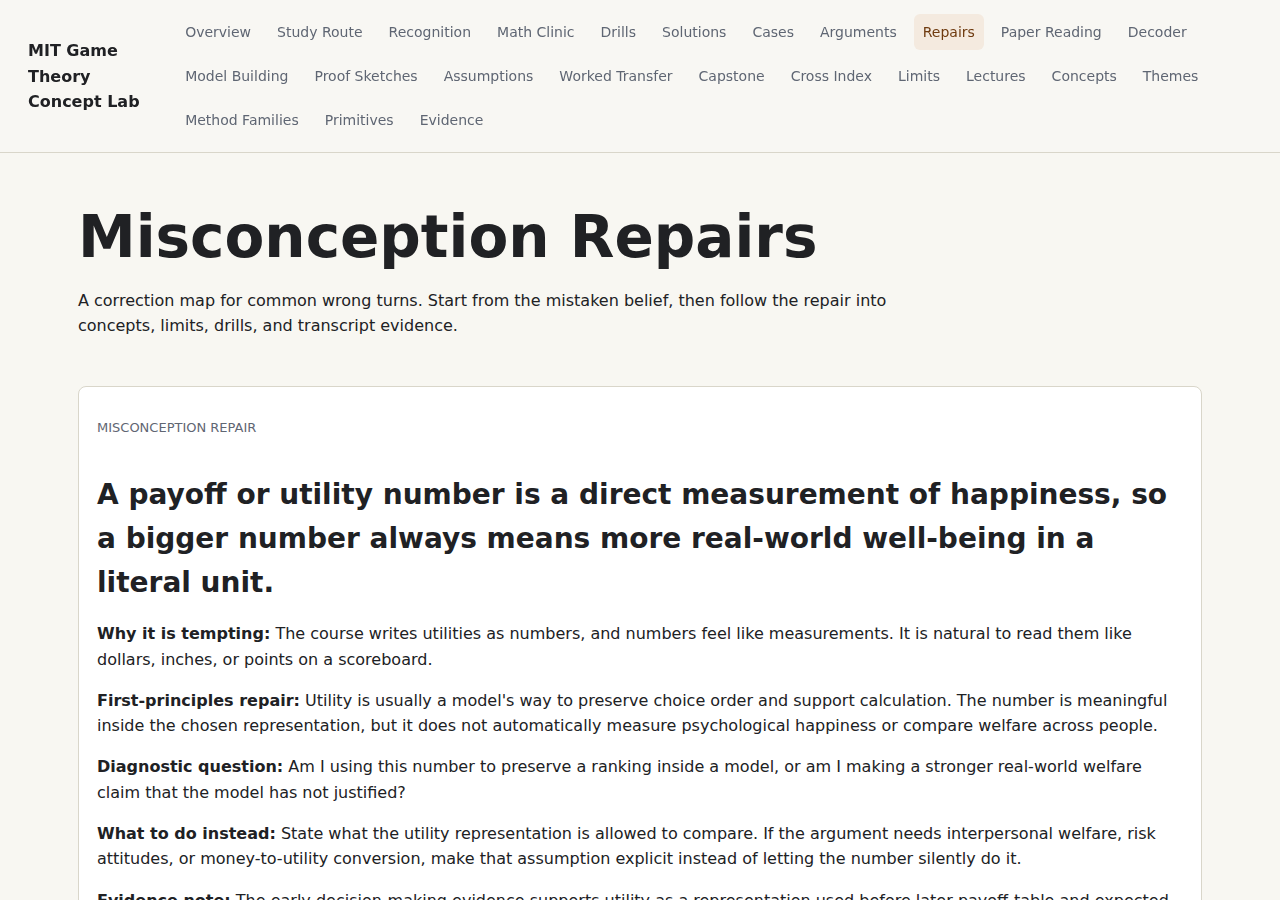
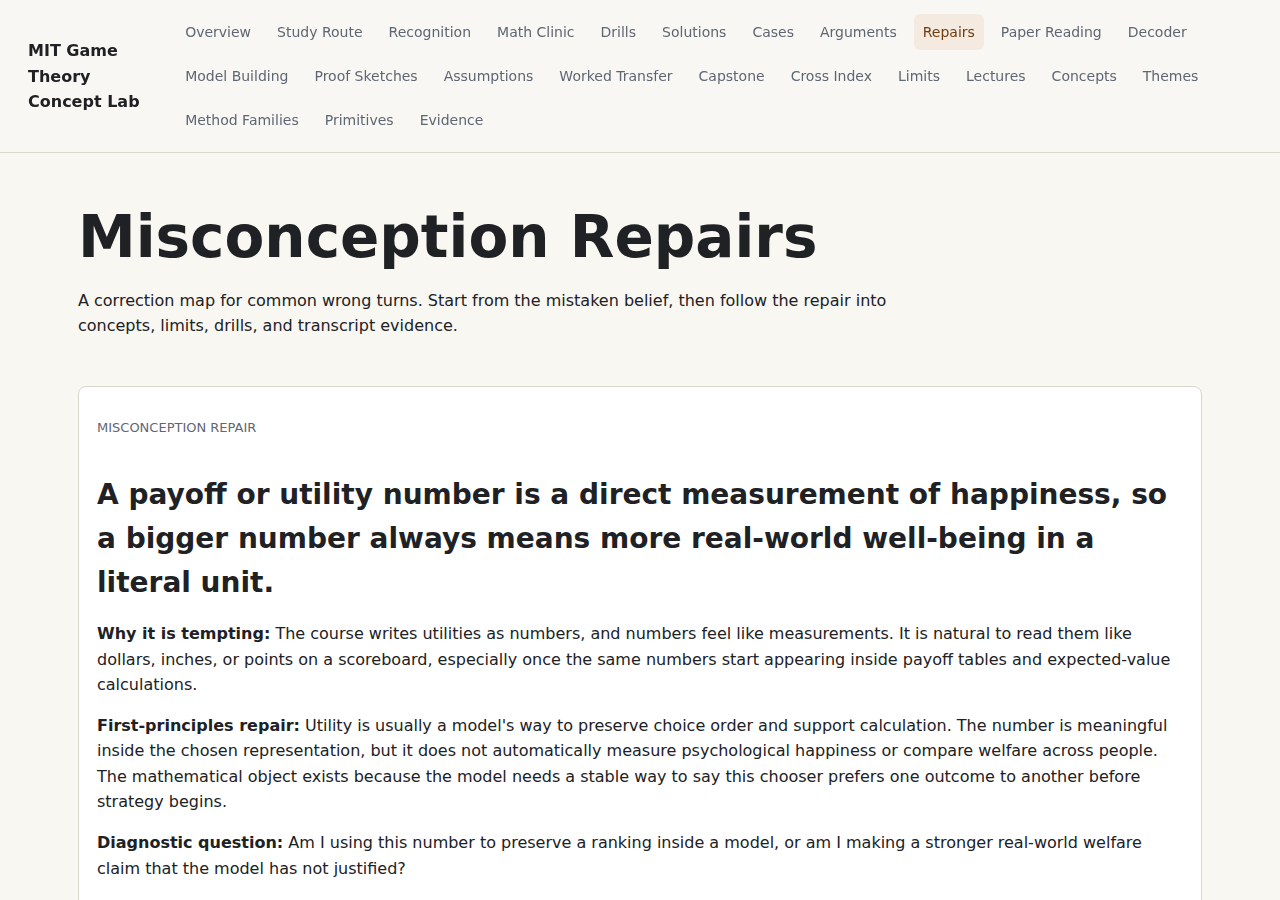
Deepen MIT misconception repairs

Changed region(s): [[0.0625, 0.7467, 0.9375, 1.0], [0.3438, 0.7156, 0.9062, 0.7467]]

diff --git a/site/repairs.html b/site/repairs.html
@@ -17,10 +17,12 @@
 </section><article class="wide-card repair-card" id="repair-payoff-is-happiness">
   <p class="eyebrow">Misconception repair</p>
   <h2>A payoff or utility number is a direct measurement of happiness, so a bigger number always means more real-world well-being in a literal unit.</h2>
-  <p><strong>Why it is tempting:</strong> The course writes utilities as numbers, and numbers feel like measurements. It is natural to read them like dollars, inches, or points on a scoreboard.</p>
-  <p><strong>First-principles repair:</strong> Utility is usually a model&#x27;s way to preserve choice order and support calculation. The number is meaningful inside the chosen representation, but it does not automatically measure psychological happiness or compare welfare across people.</p>
+  <p><strong>Why it is tempting:</strong> The course writes utilities as numbers, and numbers feel like measurements. It is natural to read them like dollars, inches, or points on a scoreboard, especially once the same numbers start appearing inside payoff tables and expected-value calculations.</p>
+  <p><strong>First-principles repair:</strong> Utility is usually a model&#x27;s way to preserve choice order and support calculation. The number is meaningful inside the chosen representation, but it does not automatically measure psychological happiness or compare welfare across people. The mathematical object exists because the model needs a stable way to say this chooser prefers one outcome to another before strategy begins.</p>
   <p><strong>Diagnostic question:</strong> Am I using this number to preserve a ranking inside a model, or am I making a stronger real-world welfare claim that the model has not justified?</p>
-  <p><strong>What to do instead:</strong> State what the utility representation is allowed to compare. If the argument needs interpersonal welfare, risk attitudes, or money-to-utility conversion, make that assumption explicit instead of letting the number silently do it.</p>
+  <p><strong>What breaks if ignored:</strong> If this mistake is ignored, the analyst may compare payoffs across people as if the units were naturally shared, treat a risk-neutral utility model as a claim about emotion, or turn a convenient payoff table into an unsupported welfare conclusion.</p>
+  <p><strong>Worked correction:</strong> When a payoff table says player A gets 4 and player B gets 2, first read those numbers within each player&#x27;s representation. For A, 4 beats A&#x27;s lower-numbered outcomes. For B, 2 has meaning inside B&#x27;s ranking. Nothing in those two entries alone proves A is twice as happy as B or that society should prefer A&#x27;s gain.</p>
+  <p><strong>Transfer test:</strong> In a new paper, circle every payoff or objective. Ask what real-world preference it represents, whether the scale matters only up to ranking, and whether any interpersonal or welfare comparison has been separately justified.</p>
   <p><strong>Evidence note:</strong> The early decision-making evidence supports utility as a representation used before later payoff-table and expected-utility calculations.</p>
   <h3>Concept Pages</h3><p class="chips"><a class="chip" href="concepts/preferences.html">Preferences</a><a class="chip" href="concepts/utility.html">Utility</a><a class="chip" href="concepts/expected_utility.html">Expected Utility</a></p>
   <h3>Limits And Traps</h3><p class="chips"><a class="chip" href="limits.html#limit-preferences">Preferences</a><a class="chip" href="limits.html#limit-utility">Utility</a><a class="chip" href="limits.html#limit-expected_utility">Expected Utility</a></p>
@@ -29,10 +31,12 @@
 </article><article class="wide-card repair-card" id="repair-dominance-is-likely-bad">
   <p class="eyebrow">Misconception repair</p>
   <h2>A strategy can be deleted as dominated because it looks bad in the case that seems most likely.</h2>
-  <p><strong>Why it is tempting:</strong> Students often bring an informal prediction into the comparison. Once a move looks unattractive under that favorite prediction, deletion feels safe.</p>
-  <p><strong>First-principles repair:</strong> Dominance is not a prediction about what the opponent will probably do. It is a universal comparison across every relevant opponent action in the model. If the supposedly bad move is useful in even one relevant case, dominance has not been shown.</p>
+  <p><strong>Why it is tempting:</strong> Students often bring an informal prediction into the comparison. Once a move looks unattractive under that favorite prediction, deletion feels safe. The mistake is especially tempting when the likely case has vivid real-world detail and the other cases feel like edge conditions.</p>
+  <p><strong>First-principles repair:</strong> Dominance is not a prediction about what the opponent will probably do. It is a universal comparison across every relevant opponent action in the model. If the supposedly bad move is useful in even one relevant case, dominance has not been shown. The mathematical principle is strong precisely because it does not need a belief about the opponent.</p>
   <p><strong>Diagnostic question:</strong> Did I compare this action against the alternative under every opponent action, or only under the scenario I expect?</p>
-  <p><strong>What to do instead:</strong> Use the dominance inequality first. If it fails, keep the action alive and move to beliefs, best responses, rationalizability, or equilibrium instead of forcing deletion.</p>
+  <p><strong>What breaks if ignored:</strong> If likelihood replaces universal comparison, the deletion step quietly changes from dominance to belief-based expected payoff. That can erase actions that matter later for equilibrium, rationalizability, or signaling, and the reader may never notice that a belief assumption entered the proof.</p>
+  <p><strong>Worked correction:</strong> Suppose high price beats low price if the rival is calm, but low price beats high price if the rival is aggressive. High price may be attractive under your favorite forecast, but low price is not dominated. Keep both actions until the model supplies beliefs or a best-response calculation.</p>
+  <p><strong>Transfer test:</strong> When a paper deletes actions, look for the word every in the comparison. If the text says usually, likely, empirically rare, or intuitively unattractive, the argument is no longer a dominance proof without an added belief model.</p>
   <p><strong>Evidence note:</strong> The dominance and rationalizability evidence anchors support the distinction between strict pruning and belief-based plausibility.</p>
   <h3>Concept Pages</h3><p class="chips"><a class="chip" href="concepts/dominance.html">Dominance</a><a class="chip" href="concepts/iterated_deletion.html">Iterated Deletion</a><a class="chip" href="concepts/rationalizability.html">Rationalizability</a></p>
   <h3>Limits And Traps</h3><p class="chips"><a class="chip" href="limits.html#limit-dominance">Dominance</a><a class="chip" href="limits.html#limit-iterated_deletion">Iterated Deletion</a><a class="chip" href="limits.html#limit-rationalizability">Rationalizability</a></p>
@@ -41,10 +45,12 @@
 </article><article class="wide-card repair-card" id="repair-equilibrium-is-good">
   <p class="eyebrow">Misconception repair</p>
   <h2>If an outcome is a Nash equilibrium, it must be good, fair, efficient, or what the group collectively wants.</h2>
-  <p><strong>Why it is tempting:</strong> The word equilibrium sounds like balance or social order. It is easy to import a positive meaning that the mathematical test does not contain.</p>
-  <p><strong>First-principles repair:</strong> Nash equilibrium is a unilateral deviation test. It says no single player wants to move alone, holding the others fixed. It does not say the outcome is socially best, fair, stable against coalitions, or morally desirable.</p>
+  <p><strong>Why it is tempting:</strong> The word equilibrium sounds like balance or social order. It is easy to import a positive meaning that the mathematical test does not contain. Many textbook examples also present equilibrium as the answer, which can make answer feel like recommendation.</p>
+  <p><strong>First-principles repair:</strong> Nash equilibrium is a unilateral deviation test. It says no single player wants to move alone, holding the others fixed. It does not say the outcome is socially best, fair, stable against coalitions, or morally desirable. The concept matters because a bad outcome can still be hard to escape when each individual move away is punished by the fixed behavior of others.</p>
   <p><strong>Diagnostic question:</strong> Am I checking individual incentives to deviate, or am I smuggling in a welfare judgment about the whole outcome?</p>
-  <p><strong>What to do instead:</strong> First test best responses player by player. Then, if welfare matters, ask a separate welfare or efficiency question rather than treating equilibrium as an endorsement.</p>
+  <p><strong>What breaks if ignored:</strong> If equilibrium is treated as goodness, prisoner-dilemma-style outcomes, aggressive pricing, inefficient coordination failures, and bad conventions become falsely sanitized. The reader loses the course&#x27;s central distinction between prediction and evaluation.</p>
+  <p><strong>Worked correction:</strong> If two firms both price aggressively, each may prefer mutual softness but still undercut if the other stays soft. The aggressive pair can pass the unilateral-deviation test even though both firms would like a coordinated alternative. The equilibrium claim is about stability, not praise.</p>
+  <p><strong>Transfer test:</strong> In new work, separate three questions: is this outcome stable against unilateral deviations, is it efficient for the group, and is it normatively acceptable? A Nash label answers only the first unless the paper adds more machinery.</p>
   <p><strong>Evidence note:</strong> The best-response and Nash evidence anchors support equilibrium as mutual consistency, while imperfect-competition examples show stable outcomes can still be socially unattractive.</p>
   <h3>Concept Pages</h3><p class="chips"><a class="chip" href="concepts/best_response.html">Best Response</a><a class="chip" href="concepts/nash_equilibrium.html">Nash Equilibrium</a><a class="chip" href="concepts/imperfect_competition.html">Imperfect Competition</a></p>
   <h3>Limits And Traps</h3><p class="chips"><a class="chip" href="limits.html#limit-best_response">Best Response</a><a class="chip" href="limits.html#limit-nash_equilibrium">Nash Equilibrium</a><a class="chip" href="limits.html#limit-imperfect_competition">Imperfect Competition</a></p>
@@ -53,10 +59,12 @@
 </article><article class="wide-card repair-card" id="repair-threats-are-automatically-credible">
   <p class="eyebrow">Misconception repair</p>
   <h2>A threat should be treated as real because it is announced before the other player chooses.</h2>
-  <p><strong>Why it is tempting:</strong> Announcements happen early in the story, and early statements can feel like fixed constraints on later behavior.</p>
-  <p><strong>First-principles repair:</strong> A future action is credible only if the player would still want to take it when the future decision point arrives. Sequential reasoning asks the later self, not only the earlier announcement.</p>
+  <p><strong>Why it is tempting:</strong> Announcements happen early in the story, and early statements can feel like fixed constraints on later behavior. Human conversation also treats promises and threats as socially meaningful, so it is easy to forget that the model has to test the later incentive separately.</p>
+  <p><strong>First-principles repair:</strong> A future action is credible only if the player would still want to take it when the future decision point arrives. Sequential reasoning asks the later self, not only the earlier announcement. The mathematical idea is backward recursion: solve the future node under the payoffs that exist then, and only afterward interpret the earlier move.</p>
   <p><strong>Diagnostic question:</strong> At the node where the threat must be carried out, is carrying it out still better for the player who made the threat?</p>
-  <p><strong>What to do instead:</strong> Draw the tree, solve the later decision first, and then use that continuation to interpret the earlier move. If the threat fails later incentives, do not let it drive the initial prediction.</p>
+  <p><strong>What breaks if ignored:</strong> If announced threats are accepted without later checks, a model can predict deterrence from empty speech. Entry threats, bargaining ultimatums, and platform enforcement rules all become too powerful because the analyst never asks whether carrying them out is costly later.</p>
+  <p><strong>Worked correction:</strong> Draw the tree. If the entrant enters, the incumbent chooses fight or accommodate. If fighting gives the incumbent -1 and accommodation gives 2, the later node selects accommodation. The entrant should reason from that continuation, not from the earlier aggressive announcement.</p>
+  <p><strong>Transfer test:</strong> In a paper or business case, jump to the moment when the threat must be executed. Ignore sunk speeches and compare the remaining payoffs. If execution is not best there, look for a commitment device before treating the threat as credible.</p>
   <p><strong>Evidence note:</strong> The extensive-form, backward-induction, and subgame-perfection evidence anchors support the course&#x27;s credibility test for dynamic games.</p>
   <h3>Concept Pages</h3><p class="chips"><a class="chip" href="concepts/extensive_form_games.html">Extensive Form Games</a><a class="chip" href="concepts/backward_induction.html">Backward Induction</a><a class="chip" href="concepts/subgame_perfection.html">Subgame-Perfect Nash Equilibrium</a></p>
   <h3>Limits And Traps</h3><p class="chips"><a class="chip" href="limits.html#limit-extensive_form_games">Extensive Form Games</a><a class="chip" href="limits.html#limit-backward_induction">Backward Induction</a><a class="chip" href="limits.html#limit-subgame_perfection">Subgame-Perfect Nash Equilibrium</a></p>
@@ -64,11 +72,13 @@
   <h3>Transcript Evidence</h3><ul class="evidence-list"><li><a href="evidence.html#ev-extensive_form_games-01">ev-extensive_form_games-01</a>: Lecture 2: Representation of Games</li><li><a href="evidence.html#ev-backward_induction-02">ev-backward_induction-02</a>: Lecture 2: Representation of Games</li><li><a href="evidence.html#ev-subgame_perfection-01">ev-subgame_perfection-01</a>: Lecture 10: Subgame-Perfect Nash Equilibrium</li></ul>
 </article><article class="wide-card repair-card" id="repair-repetition-guarantees-cooperation">
   <p class="eyebrow">Misconception repair</p>
-  <h2>If players interact repeatedly, cooperation should follow because people care about the relationship.</h2>
-  <p><strong>Why it is tempting:</strong> Repeated interaction feels socially richer than a one-shot encounter, so it is tempting to treat the future as automatically disciplining behavior.</p>
-  <p><strong>First-principles repair:</strong> Repetition only helps when future consequences are strong enough. The model compares today&#x27;s deviation gain with the discounted future loss from punishment or lost cooperation.</p>
+  <h2>If players interact repeatedly, cooperation should follow because people care about the relationship and expect future contact.</h2>
+  <p><strong>Why it is tempting:</strong> Repeated interaction feels socially richer than a one-shot encounter, so it is tempting to treat the future as automatically disciplining behavior. Everyday relationship language also makes patience sound moral rather than mathematical.</p>
+  <p><strong>First-principles repair:</strong> Repetition only helps when future consequences are strong enough. The model compares today&#x27;s deviation gain with the discounted future loss from punishment or lost cooperation. The future is a force in the model only after monitoring, punishment, and patience turn it into an incentive that changes the present best response.</p>
   <p><strong>Diagnostic question:</strong> What is the one-time gain from cheating, what future loss follows, and how much does the player value that future?</p>
-  <p><strong>What to do instead:</strong> Write the incentive comparison. Cooperation is supported only if the discounted value of staying on the cooperative path beats deviation plus punishment.</p>
+  <p><strong>What breaks if ignored:</strong> If repetition is treated as automatic cooperation, finite endings, weak monitoring, low patience, and noncredible punishments disappear from the analysis. The folk-theorem intuition then becomes a slogan instead of a conditional result about payoffs, feasible punishments, and continuation value.</p>
+  <p><strong>Worked correction:</strong> If cheating gives 10 today instead of 6, but triggers future payoffs of 2 instead of 6, compare the one-time gain of 4 with the discounted stream of future losses. A patient player may cooperate; an impatient player may cheat. Repetition alone does not decide the answer.</p>
+  <p><strong>Transfer test:</strong> When a paper says cooperation is sustained by repeated interaction, find the incentive constraint. Identify the deviation payoff, cooperative continuation, punishment continuation, monitoring assumption, and discount factor before accepting the claim as more than a repeated-contact story.</p>
   <p><strong>Evidence note:</strong> The repeated-game, folk-theorem, and cartel evidence anchors support future discipline as an incentive calculation, not a general claim about relationships.</p>
   <h3>Concept Pages</h3><p class="chips"><a class="chip" href="concepts/infinitely_repeated_games.html">Infinitely Repeated Games</a><a class="chip" href="concepts/folk_theorem.html">Folk Theorem</a><a class="chip" href="concepts/implicit_cartels.html">Implicit Cartels</a></p>
   <h3>Limits And Traps</h3><p class="chips"><a class="chip" href="limits.html#limit-infinitely_repeated_games">Infinitely Repeated Games</a><a class="chip" href="limits.html#limit-folk_theorem">Folk Theorem</a><a class="chip" href="limits.html#limit-implicit_cartels">Implicit Cartels</a></p>
@@ -77,10 +87,12 @@
 </article><article class="wide-card repair-card" id="repair-beliefs-are-free">
   <p class="eyebrow">Misconception repair</p>
   <h2>In Bayesian or signaling models, beliefs can be chosen freely to make the desired story work.</h2>
-  <p><strong>Why it is tempting:</strong> Beliefs are not directly observed, so they can feel like adjustable narrative glue.</p>
-  <p><strong>First-principles repair:</strong> Beliefs are part of the model&#x27;s discipline. They must be tied to types, priors, observed actions, Bayes&#x27; rule where applicable, and the incentives that make different types choose different actions.</p>
+  <p><strong>Why it is tempting:</strong> Beliefs are not directly observed, so they can feel like adjustable narrative glue. It is also common for solution writeups to state beliefs compactly, hiding the type distribution, observed action, and equilibrium-path logic that made those beliefs legitimate.</p>
+  <p><strong>First-principles repair:</strong> Beliefs are part of the model&#x27;s discipline. They must be tied to types, priors, observed actions, Bayes&#x27; rule where applicable, and the incentives that make different types choose different actions. In signaling, the receiver&#x27;s belief and the sender&#x27;s action have to support each other.</p>
   <p><strong>Diagnostic question:</strong> Does this belief follow from the modeled type distribution and observed behavior, or is it being inserted just to rescue the conclusion?</p>
-  <p><strong>What to do instead:</strong> List the possible types, ask how likely each action is under each type, update beliefs where the path has positive probability, and separately check whether each type wants to imitate or separate.</p>
+  <p><strong>What breaks if ignored:</strong> If beliefs are unconstrained, any story can be made to look Bayesian. A warranty can reveal quality without costly imitation checks, a message can persuade without incentive alignment, and a perfect-Bayesian-equilibrium claim can hide arbitrary off-path assumptions.</p>
+  <p><strong>Worked correction:</strong> List high and low types. Ask what each type would do if buyers reward the observed action. If both types cheaply choose the same warranty, seeing a warranty should not strongly raise the buyer&#x27;s belief that the seller is high quality. The belief must follow from differential behavior.</p>
+  <p><strong>Transfer test:</strong> In new work, trace every posterior back to a prior, a signal or action, and a likelihood under each type. Then check whether the type assigned to an action actually wants to take that action instead of imitating another type.</p>
   <p><strong>Evidence note:</strong> The type, perfect-Bayesian-equilibrium, signaling, and screening evidence anchors support beliefs as disciplined responses to hidden information and observed behavior.</p>
   <h3>Concept Pages</h3><p class="chips"><a class="chip" href="concepts/types_and_beliefs.html">Types And Beliefs</a><a class="chip" href="concepts/perfect_bayesian_equilibrium.html">Perfect Bayesian Equilibrium</a><a class="chip" href="concepts/signaling.html">Signaling</a><a class="chip" href="concepts/screening_and_adverse_selection.html">Screening And Adverse Selection</a></p>
   <h3>Limits And Traps</h3><p class="chips"><a class="chip" href="limits.html#limit-types_and_beliefs">Types And Beliefs</a><a class="chip" href="limits.html#limit-perfect_bayesian_equilibrium">Perfect Bayesian Equilibrium</a><a class="chip" href="limits.html#limit-signaling">Signaling</a></p>
@@ -88,11 +100,13 @@
   <h3>Transcript Evidence</h3><ul class="evidence-list"><li><a href="evidence.html#ev-types_and_beliefs-01">ev-types_and_beliefs-01</a>: Lecture 16: Bayesian Games</li><li><a href="evidence.html#ev-perfect_bayesian_equilibrium-01">ev-perfect_bayesian_equilibrium-01</a>: Lecture 21: Perfect Bayesian Equilibrium</li><li><a href="evidence.html#ev-signaling-01">ev-signaling-01</a>: Lecture 22: Signaling</li><li><a href="evidence.html#ev-screening_and_adverse_selection-01">ev-screening_and_adverse_selection-01</a>: Lecture 16: Bayesian Games</li></ul>
 </article><article class="wide-card repair-card" id="repair-auctions-are-highest-bid-only">
   <p class="eyebrow">Misconception repair</p>
-  <h2>Auction analysis is just about who bids the most and how much the winner pays.</h2>
-  <p><strong>Why it is tempting:</strong> Many everyday auctions are described by the visible winning bid, so the rule behind allocation and payment can disappear from view.</p>
-  <p><strong>First-principles repair:</strong> Auction rules are incentive machines. A bidder responds to the probability of winning, payment if winning, private value, information about rivals, and any quality or ranking rule built into the mechanism.</p>
-  <p><strong>Diagnostic question:</strong> How does the rule change allocation, payment, winning probability, and the reason to reveal or shade private value?</p>
-  <p><strong>What to do instead:</strong> Separate allocation from payment. Then ask how a bidder&#x27;s action changes both the chance of winning and the amount paid conditional on winning.</p>
+  <h2>Auction analysis is just about who bids the most and how much the winner pays after bidding ends.</h2>
+  <p><strong>Why it is tempting:</strong> Many everyday auctions are described by the visible winning bid, so the rule behind allocation and payment can disappear from view. Ad auctions make the problem worse because the public may see rankings but not quality weights, reserve prices, or payment formulas.</p>
+  <p><strong>First-principles repair:</strong> Auction rules are incentive machines. A bidder responds to the probability of winning, payment if winning, private value, information about rivals, and any quality or ranking rule built into the mechanism. The mathematical principle matters because the same bid can change allocation and payment through different channels.</p>
+  <p><strong>Diagnostic question:</strong> How does the rule change allocation, payment, winning probability, and the reason to reveal or shade private value under strategic pressure?</p>
+  <p><strong>What breaks if ignored:</strong> If the rule is reduced to highest bid wins, the reader misses bid shading, quality scoring, expected payment, revenue-equivalence assumptions, and strategic changes induced by mechanism design. The model becomes a price story instead of an incentive story.</p>
+  <p><strong>Worked correction:</strong> Separate the event of winning from the payment conditional on winning. If raising a bid increases winning probability but also raises expected payment, the bidder compares the extra value from better allocation with the extra payment. In an ad auction, quality can shift that comparison again.</p>
+  <p><strong>Transfer test:</strong> When reading any auction or platform rule, write two lines before solving: who gets allocated, and what do they pay in each event? Then ask how a participant can change each line by bidding, shading, improving quality, entering, or leaving.</p>
   <p><strong>Evidence note:</strong> The auction, revenue-equivalence, and ad-auction evidence anchors support treating auction formats as rule systems that shape incentives.</p>
   <h3>Concept Pages</h3><p class="chips"><a class="chip" href="concepts/auctions.html">Auctions</a><a class="chip" href="concepts/revenue_equivalence.html">Revenue Equivalence</a><a class="chip" href="concepts/ad_auctions.html">Ad Auctions</a></p>
   <h3>Limits And Traps</h3><p class="chips"><a class="chip" href="limits.html#limit-auctions">Auctions</a><a class="chip" href="limits.html#limit-revenue_equivalence">Revenue Equivalence</a><a class="chip" href="limits.html#limit-ad_auctions">Ad Auctions</a></p>
@@ -100,11 +114,13 @@
   <h3>Transcript Evidence</h3><ul class="evidence-list"><li><a href="evidence.html#ev-auctions-01">ev-auctions-01</a>: Lecture 18: Auctions</li><li><a href="evidence.html#ev-revenue_equivalence-01">ev-revenue_equivalence-01</a>: Lecture 19: Revenue Equivalence</li><li><a href="evidence.html#ev-ad_auctions-01">ev-ad_auctions-01</a>: Lecture 20: Ad Auctions</li></ul>
 </article><article class="wide-card repair-card" id="repair-everyone-knows-is-common-knowledge">
   <p class="eyebrow">Misconception repair</p>
-  <h2>If every player privately knows the same fact, then the fact is common knowledge.</h2>
-  <p><strong>Why it is tempting:</strong> The phrase everyone knows sounds complete. It hides the higher-order question of whether everyone knows that everyone knows.</p>
-  <p><strong>First-principles repair:</strong> Common knowledge is recursive publicness. Players need not only the fact, but confidence that others know it, know that others know it, and so on.</p>
-  <p><strong>Diagnostic question:</strong> Is the fact merely true, privately known by all, mutually known, or publicly anchored through the recursive chain?</p>
-  <p><strong>What to do instead:</strong> Track the levels of knowledge explicitly. If coordination depends on what players believe about other players&#x27; beliefs, a public announcement can matter even when it adds no new first-order fact.</p>
+  <h2>If every player privately knows the same fact, then the fact is automatically common knowledge for coordination.</h2>
+  <p><strong>Why it is tempting:</strong> The phrase everyone knows sounds complete. It hides the higher-order question of whether everyone knows that everyone knows. In ordinary speech, shared truth and public awareness are often collapsed into one phrase, so the extra recursive requirement feels pedantic until coordination fails.</p>
+  <p><strong>First-principles repair:</strong> Common knowledge is recursive publicness. Players need not only the fact, but confidence that others know it, know that others know it, and so on. The mathematical object exists because coordination can depend on beliefs about other people&#x27;s beliefs, not only on the underlying fact.</p>
+  <p><strong>Diagnostic question:</strong> Is the fact merely true, privately known by all, mutually known, or publicly anchored through the recursive chain needed for coordination?</p>
+  <p><strong>What breaks if ignored:</strong> If private shared knowledge is treated as common knowledge, public announcements look useless when they may be strategically decisive. Coordination failures, market runs, and communication games become misread because the reader ignores the belief hierarchy.</p>
+  <p><strong>Worked correction:</strong> Every trader may privately hear a policy rumor, yet hesitate because selling alone is costly. A public announcement changes the situation by making each trader confident that others heard the same fact and know that others heard it too. The factual content can stay fixed while strategic meaning changes.</p>
+  <p><strong>Transfer test:</strong> In new work, separate first-order information from publicness. Ask whether the model needs a fact, everyone knowing the fact, everyone knowing everyone knows it, or a public event that anchors the whole recursive chain and lets players safely reason from the same premise.</p>
   <p><strong>Evidence note:</strong> The common-knowledge and cheap-talk evidence anchors support the distinction between private information, publicness, and coordination through shared awareness.</p>
   <h3>Concept Pages</h3><p class="chips"><a class="chip" href="concepts/common_knowledge.html">Common Knowledge</a><a class="chip" href="concepts/cheap_talk.html">Cheap Talk</a><a class="chip" href="concepts/nash_equilibrium.html">Nash Equilibrium</a></p>
   <h3>Limits And Traps</h3><p class="chips"><a class="chip" href="limits.html#limit-common_knowledge">Common Knowledge</a><a class="chip" href="limits.html#limit-cheap_talk">Cheap Talk</a><a class="chip" href="limits.html#limit-nash_equilibrium">Nash Equilibrium</a></p>

diff --git a/scripts/validate_site.py b/scripts/validate_site.py
@@ -395,13 +395,15 @@ def main() -> int:
     for repair in repairs:
         if f'id="{repair["id"]}"' not in repairs_html:
             errors.append(f"misconception repair not rendered: {repair['id']}")
-        for field in ["mistaken_belief", "why_it_is_tempting", "first_principles_repair", "diagnostic_question", "what_to_do_instead", "evidence_note"]:
+        fields = ["mistaken_belief", "why_it_is_tempting", "first_principles_repair", "diagnostic_question", "what_breaks_if_ignored", "worked_correction", "transfer_test", "evidence_note"]
+        for field in fields:
             value = repair.get(field, "")
-            if words(value) < 12:
+            minimum = 12 if field in ["mistaken_belief", "diagnostic_question", "evidence_note"] else 24
+            if words(value) < minimum:
                 errors.append(f"misconception repair {repair['id']} has shallow {field}")
             elif html.escape(value, quote=True) not in repairs_html:
                 errors.append(f"misconception repair {repair['id']} {field} not rendered")
-        if words(" ".join(str(repair.get(field, "")) for field in ["mistaken_belief", "why_it_is_tempting", "first_principles_repair", "diagnostic_question", "what_to_do_instead", "evidence_note"])) < 120:
+        if words(" ".join(str(repair.get(field, "")) for field in fields)) < 260:
             errors.append(f"misconception repair {repair['id']} has shallow combined treatment")
         for concept_id in repair.get("concepts", []):
             if concept_id not in concept_by_id:

diff --git a/scripts/audit_editorial_quality.py b/scripts/audit_editorial_quality.py
@@ -522,11 +522,11 @@ def main() -> int:
             errors.append(f"misconception repair {repair['id']} not rendered")
         text = " ".join(
             str(repair.get(k, ""))
-            for k in ["mistaken_belief", "why_it_is_tempting", "first_principles_repair", "diagnostic_question", "what_to_do_instead", "evidence_note"]
+            for k in ["mistaken_belief", "why_it_is_tempting", "first_principles_repair", "diagnostic_question", "what_breaks_if_ignored", "worked_correction", "transfer_test", "evidence_note"]
         )
         treatment_words = words(text)
         repair_words.append(treatment_words)
-        if treatment_words < 120:
+        if treatment_words < 260:
             errors.append(f"misconception repair {repair['id']} has shallow treatment: {treatment_words} words")
         linked_concepts = [cid for cid in repair.get("concepts", []) if f'href="concepts/{cid}.html"' in repairs_html]
         linked_limits = [cid for cid in repair.get("limit_concepts", []) if f'href="limits.html#limit-{cid}"' in repairs_html]

diff --git a/scripts/build_site.py b/scripts/build_site.py
@@ -585,7 +585,9 @@ def build_misconception_repairs(repairs, concept_by_id, drill_by_id, ev_by_id):
   <p><strong>Why it is tempting:</strong> {esc(repair["why_it_is_tempting"])}</p>
   <p><strong>First-principles repair:</strong> {esc(repair["first_principles_repair"])}</p>
   <p><strong>Diagnostic question:</strong> {esc(repair["diagnostic_question"])}</p>
-  <p><strong>What to do instead:</strong> {esc(repair["what_to_do_instead"])}</p>
+  <p><strong>What breaks if ignored:</strong> {esc(repair["what_breaks_if_ignored"])}</p>
+  <p><strong>Worked correction:</strong> {esc(repair["worked_correction"])}</p>
+  <p><strong>Transfer test:</strong> {esc(repair["transfer_test"])}</p>
   <p><strong>Evidence note:</strong> {esc(repair["evidence_note"])}</p>
   <h3>Concept Pages</h3><p class="chips">{concept_links}</p>
   <h3>Limits And Traps</h3><p class="chips">{limit_links}</p>

diff --git a/analysis/audits/site-render-report.md b/analysis/audits/site-render-report.md
@@ -16,7 +16,7 @@ Playwright render audit for representative desktop and mobile pages.
 - desktop-solutions: `solutions.html`, viewport 1280,900, captured 1280x900, 155765 bytes
 - desktop-cases: `cases.html`, viewport 1280,900, captured 1280x900, 148459 bytes
 - desktop-argument-chains: `argument-chains.html`, viewport 1280,900, captured 1280x900, 130902 bytes
-- desktop-repairs: `repairs.html`, viewport 1280,900, captured 1280x900, 146150 bytes
+- desktop-repairs: `repairs.html`, viewport 1280,900, captured 1280x900, 140875 bytes
 - desktop-paper-reading: `paper-reading.html`, viewport 1280,900, captured 1280x900, 167422 bytes
 - desktop-jargon-decoder: `jargon-decoder.html`, viewport 1280,900, captured 1280x900, 153913 bytes
 - desktop-model-building: `model-building.html`, viewport 1280,900, captured 1280x900, 140260 bytes

diff --git a/analysis/audits/editorial-quality-report.md b/analysis/audits/editorial-quality-report.md
@@ -67,7 +67,7 @@ This static audit checks explanatory depth, required teaching sections, evidence
 - Argument chain primitive links: 19
 - Argument chain evidence links: 29
 - Misconception repair cards: 8
-- Misconception repair words: min 126, max 167
+- Misconception repair words: min 270, max 309
 - Misconception repair concept links: 25
 - Misconception repair limit links: 24
 - Misconception repair drill links: 8
